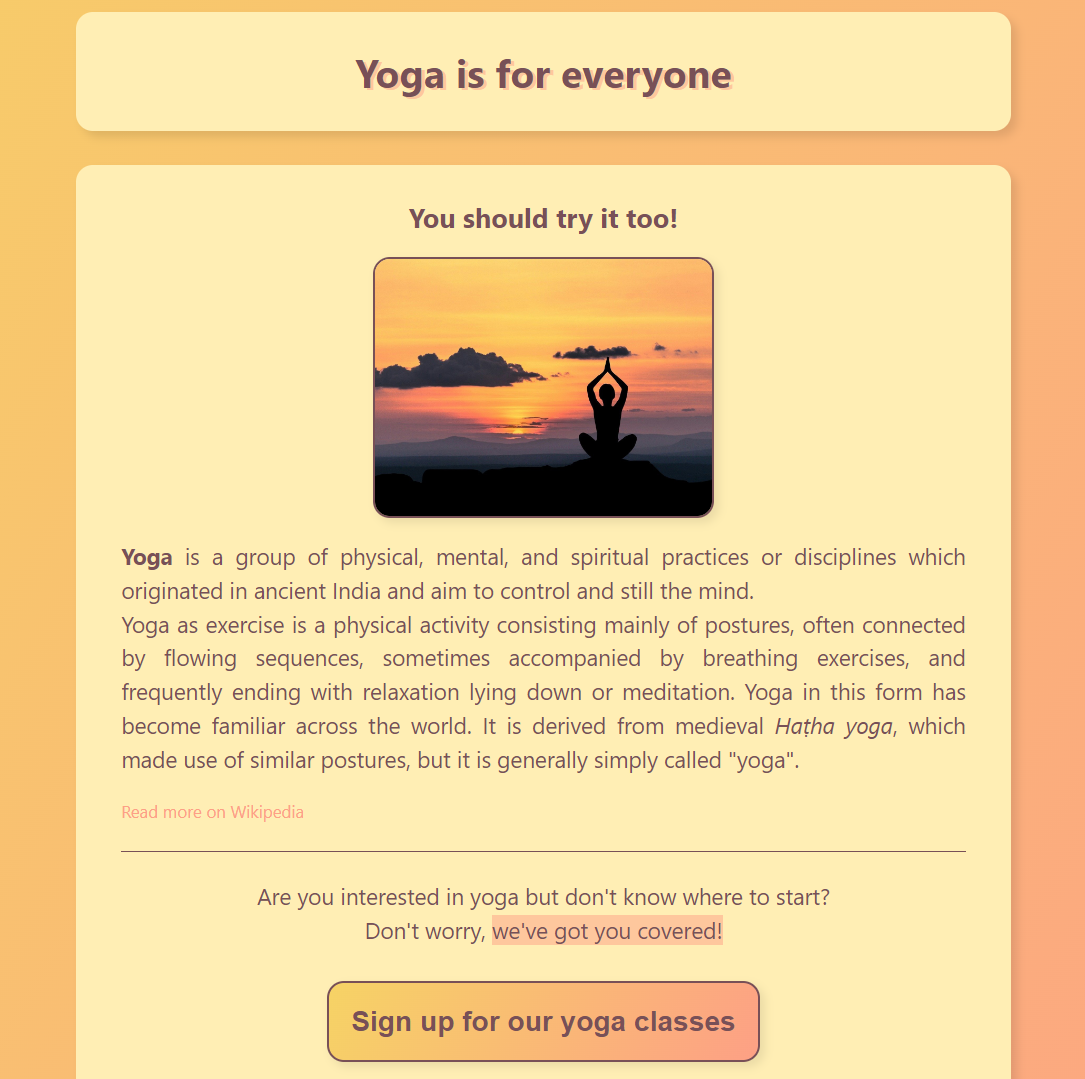
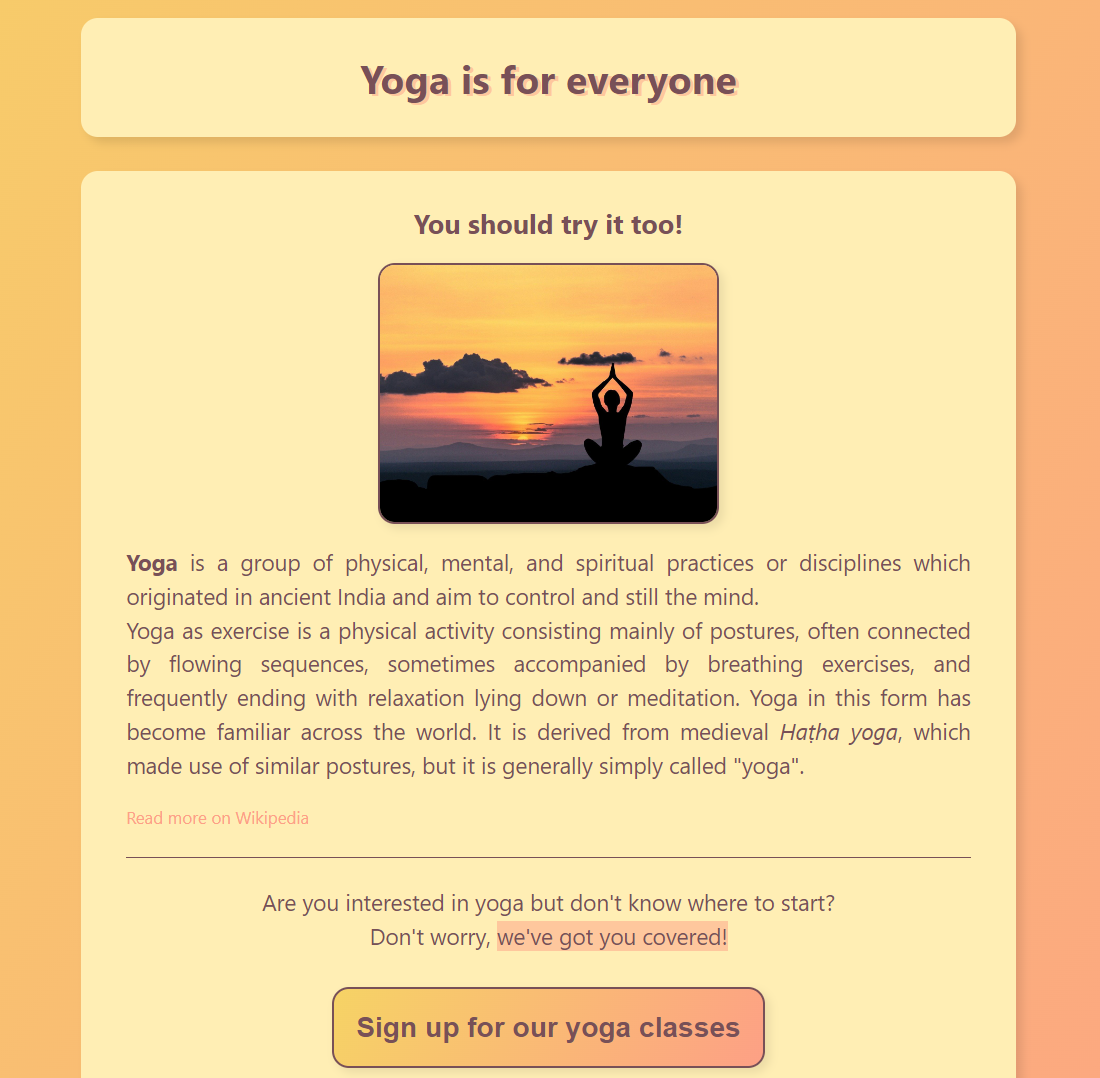
Work page content

Changed region(s): [[0.0608, 0.0612, 0.9429, 1.0], [0.2433, 0.8265, 0.7604, 1.0], [0.0608, 0.0, 0.9429, 0.1224]]

diff --git a/work.html b/work.html
@@ -1,0 +1,84 @@
+<!DOCTYPE html>
+<html lang="en">
+  <head>
+    <meta charset="UTF-8" />
+    <meta http-equiv="X-UA-Compatible" content="IE=edge" />
+    <meta name="viewport" content="width=device-width, initial-scale=1.0" />
+    <title>Document</title>
+    <link
+      href="https://cdn.jsdelivr.net/npm/bootstrap@5.3.0-alpha3/dist/css/bootstrap.min.css"
+      rel="stylesheet"
+      integrity="sha384-KK94CHFLLe+nY2dmCWGMq91rCGa5gtU4mk92HdvYe+M/SXH301p5ILy+dN9+nJOZ"
+      crossorigin="anonymous"
+    />
+    <script
+      src="https://cdn.jsdelivr.net/npm/bootstrap@5.3.0-alpha3/dist/js/bootstrap.bundle.min.js"
+      integrity="sha384-ENjdO4Dr2bkBIFxQpeoTz1HIcje39Wm4jDKdf19U8gI4ddQ3GYNS7NTKfAdVQSZe"
+      crossorigin="anonymous"
+    ></script>
+    <script
+      src="https://kit.fontawesome.com/20433e80d6.js"
+      crossorigin="anonymous"
+    ></script>
+    <link rel="preconnect" href="https://fonts.googleapis.com" />
+    <link rel="preconnect" href="https://fonts.gstatic.com" crossorigin />
+    <link
+      href="https://fonts.googleapis.com/css2?family=Playfair+Display:wght@700&family=Poppins:wght@400;500;700&display=swap"
+      rel="stylesheet"
+    />
+    <link rel="stylesheet" href="/css/styles.css" />
+  </head>
+  <body>
+    <div class="container content-container">
+      <div class="content">
+        <div class="row mb-5">
+          <div class="col-lg-8">
+            <h1>Take a look at what I've been working on!</h1>
+          </div>
+        </div>
+        <div class="work-content">
+          <div class="row">
+            <div class="col-md-6 mb-4">
+              <img
+                src="/images/yoga.png"
+                alt=""
+                class="img-fluid rounded-4 mb-4"
+              />
+              <h3 class="mb-0">Yoga project</h3>
+              <p class="text-muted">Built with HTML and CSS</p>
+            </div>
+            <div class="col-md-6 mb-4">
+              <img
+                src="/images/weather.png"
+                alt=""
+                class="img-fluid rounded-4 mb-4"
+              />
+              <h3 class="mb-0">Weather app</h3>
+              <p class="text-muted">Built with HTML, CSS and JavaScript</p>
+            </div>
+          </div>
+          <div class="row">
+            <div class="col-md-6 mb-4">
+              <img
+                src="/images/dictionary.png"
+                alt=""
+                class="img-fluid rounded-4 mb-4"
+              />
+              <h3 class="mb-0">Dictionary app</h3>
+              <p class="text-muted">Built with HTML, CSS and React</p>
+            </div>
+            <div class="col-md-6 mb-4">
+              <img
+                src="/images/translator.png"
+                alt=""
+                class="img-fluid rounded-4 mb-4"
+              />
+              <h3 class="mb-0">Translator</h3>
+              <p class="text-muted">Built with HTML, CSS and React</p>
+            </div>
+          </div>
+        </div>
+      </div>
+    </div>
+  </body>
+</html>

diff --git a/css/styles.css b/css/styles.css
@@ -77,23 +77,37 @@ p {
   padding: 110px 60px;
 }
 
-.about-section {
+.content-container {
   padding: 150px 20px;
 }
 
-.about-section h1 {
+.content-container h1 {
   font-size: 64px;
   line-height: 85px;
 }
 
-.about-section h2 {
+.content-container h2 {
   font-family: "Poppins", sans-serif;
   font-size: 18px;
   font-weight: 700;
 }
 
-.about-content {
+.content-container h3 {
+  font-family: "Poppins", sans-serif;
+  font-size: 24px;
+  font-weight: 700;
+}
+
+.content {
   padding: 30px;
+}
+
+.work-content {
+  text-align: center;
+}
+
+.work-content p {
+  font-size: 14px;
 }
 
 .btn-branding:hover {
@@ -140,11 +154,11 @@ p {
     text-align: center;
     padding: 0 5px;
   }
-  .about-section {
+  .content-container {
     text-align: center;
     padding: 20px;
   }
-  .about-section h1 {
+  .content-container h1 {
     font-size: 50px;
     line-height: 1;
   }

diff --git a/about.html b/about.html
@@ -29,10 +29,10 @@
     <link rel="stylesheet" href="/css/styles.css" />
   </head>
   <body>
-    <div class="container about-section">
+    <div class="container content-container">
       <div class="row">
         <div class="col-lg-6">
-          <div class="about-content">
+          <div class="content">
             <h1 class="mb-4">Hi! I am Anna Melnyk</h1>
             <h2 class="mb-4">Front-end developer, based in Germany</h2>
             <p class="text-muted mb-5">
